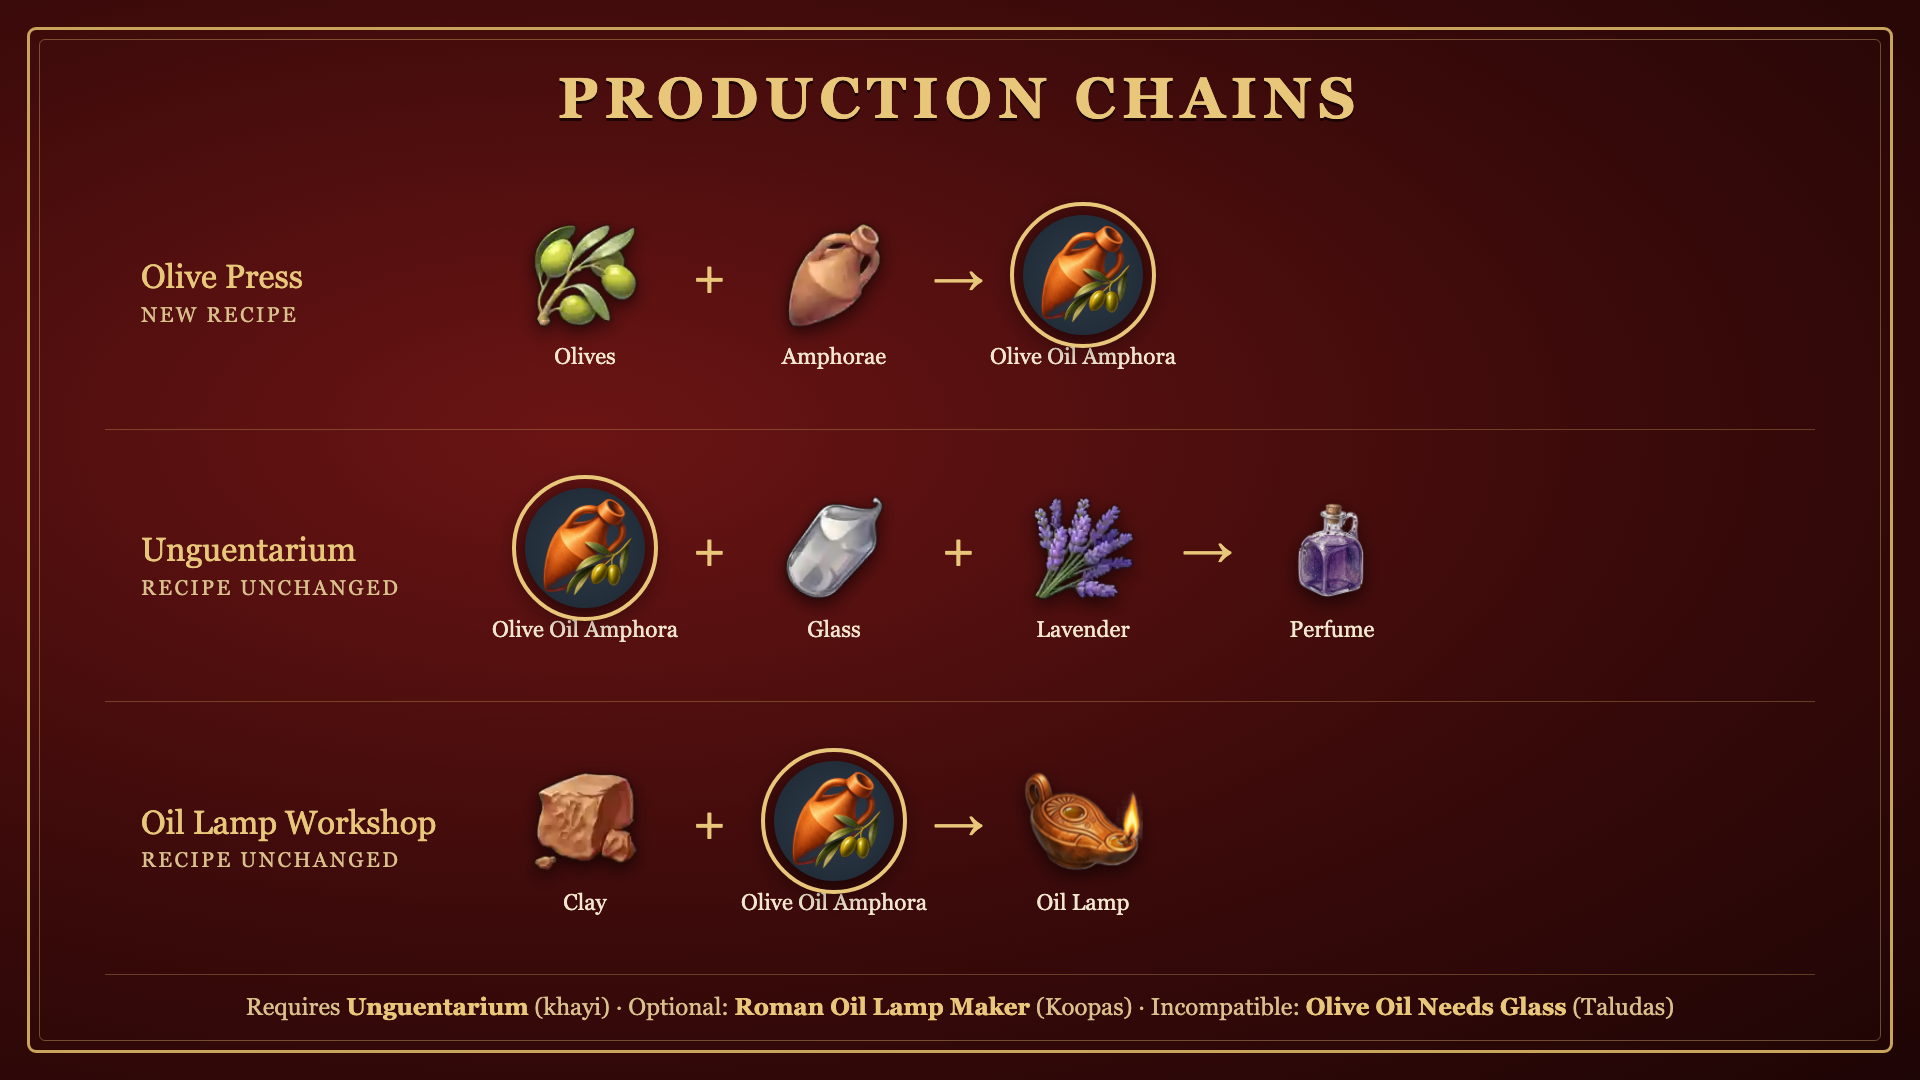
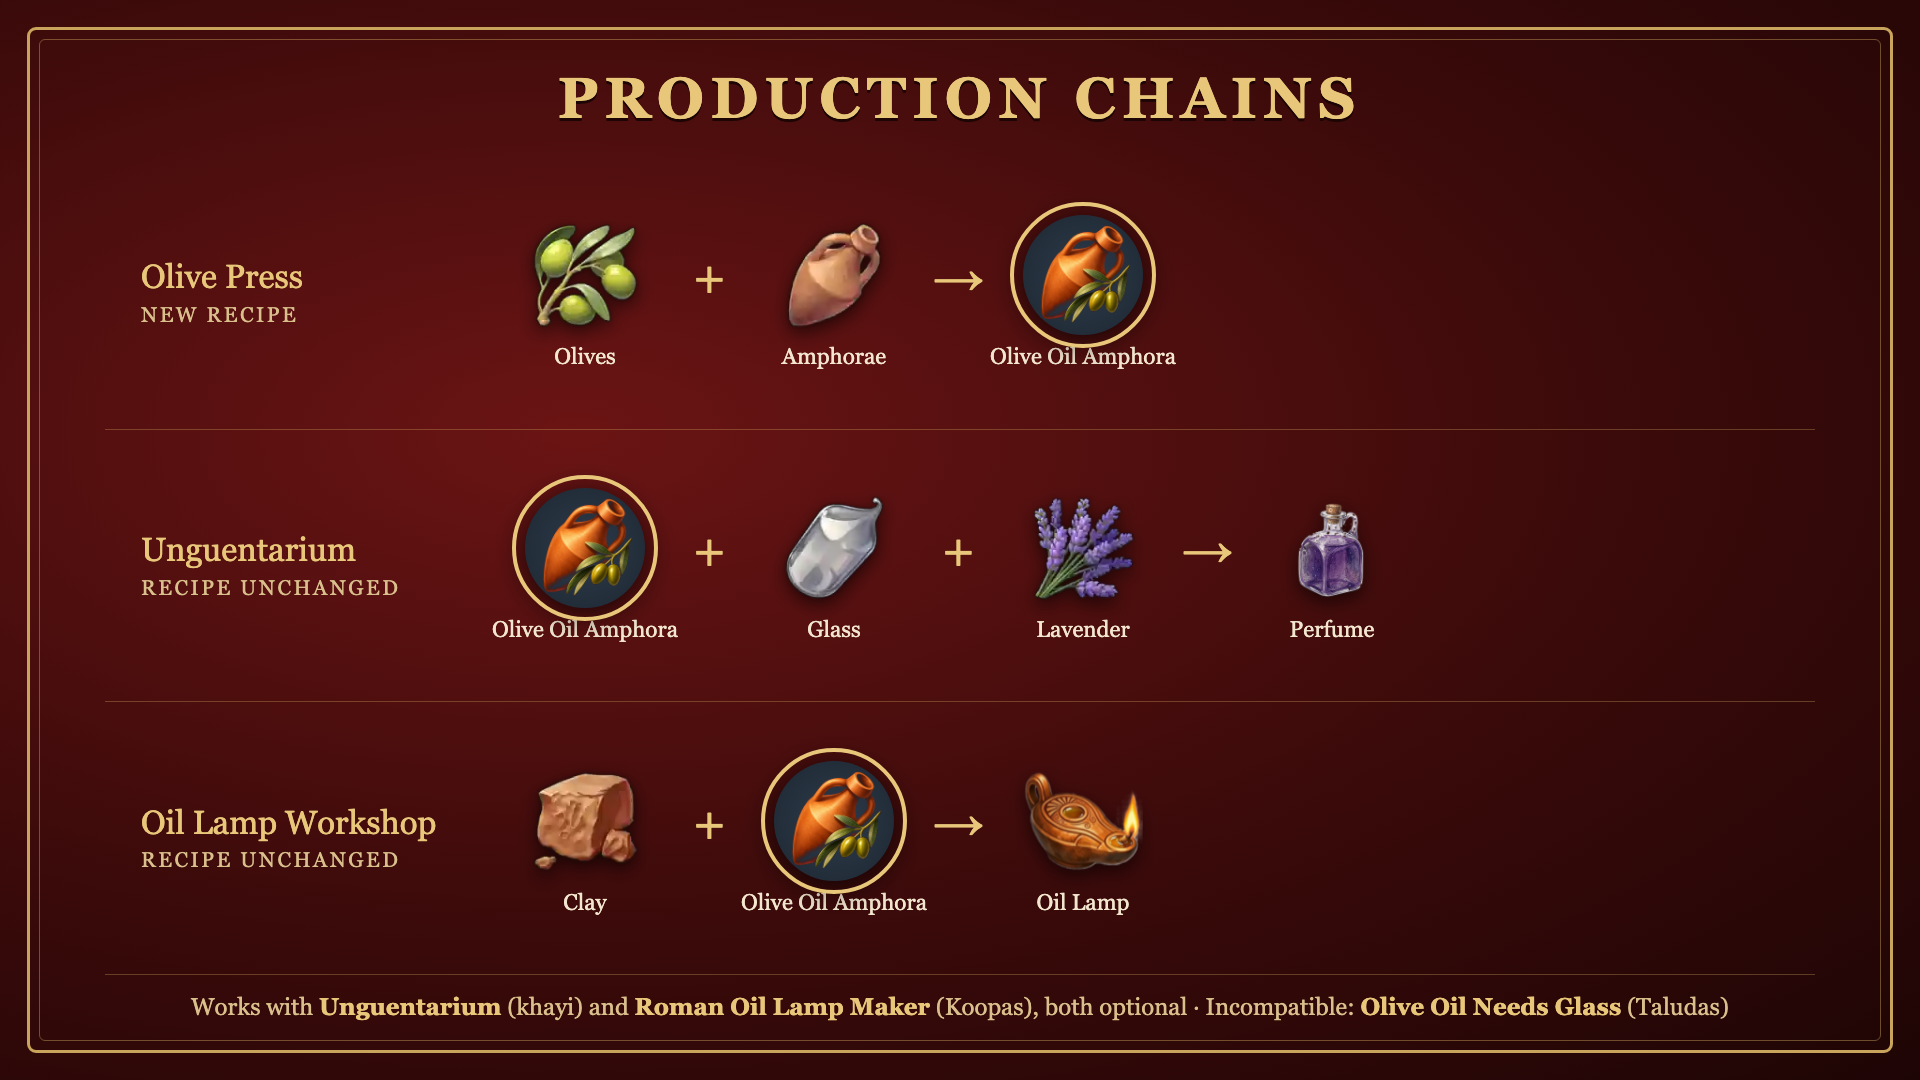
fix(mod): make Unguentarium an optional dependency; release 0.1.5
The olive press, rename and olive oil chain views only touch vanilla assets,
and the perfume chain patches are already guarded by Group conditions.

Changed region(s): [[0.0938, 0.9167, 0.9062, 0.9472]]

diff --git a/tests/test_mod.py b/tests/test_mod.py
@@ -214,8 +214,8 @@ class StaticTests(unittest.TestCase):
         for key in ("ModName", "Category", "Description"):
             self.assertTrue(info[key]["English"])
         deps = info["Dependencies"]
-        self.assertEqual(deps["Require"], ["unguentarium-khayi"])
-        self.assertEqual(deps["Optional"], ["roman-night-lamps-koopas"])
+        self.assertEqual(deps["Require"], [])
+        self.assertEqual(deps["Optional"], ["unguentarium-khayi", "roman-night-lamps-koopas"])
         self.assertTrue(set(deps["Require"] + deps["Optional"]) <= set(deps["LoadAfter"]), "dependencies must load first")
         self.assertEqual(deps["Incompatible"], [TALUDAS])
         self.assertNotIn(TALUDAS, deps["Optional"] + deps["LoadAfter"])
@@ -347,7 +347,7 @@ class UpstreamTests(unittest.TestCase):
         self.assertIn("roman-night-lamps-koopas", self.mods)
         self.assertEqual(self.factory_inputs("roman-night-lamps-koopas", LAMP_WORKSHOP), [CLAY, OLIVE_OIL])
 
-    def test_no_patch_conflicts_with_required_mods(self):
+    def test_no_patch_conflicts_with_supported_mods(self):
         for mod_id in ("unguentarium-khayi", "roman-night-lamps-koopas"):
             # Unguentarium locks its own chain views; our display patch on them is checked against its real files.
             self.assertEqual(self.patched_guids(mod_id) & (PATCHED_GUIDS - set(PERFUME_CHAINS)), set(), mod_id)

diff --git a/README.md b/README.md
@@ -24,11 +24,11 @@ The new name uses LineId `2001004149` and ships in all 12 game languages. French
 
 | Mod | ModID | Version checked | Relation |
 |---|---|---|---|
-| Unguentarium – Roman Perfumery (khayi) | `unguentarium-khayi` | 1.6, 1.7 | Required, loads before |
+| Unguentarium – Roman Perfumery (khayi) | `unguentarium-khayi` | 1.6, 1.7 | Optional, loads before |
 | Roman Oil Lamp Maker (Koopas) | `roman-night-lamps-koopas` | 1.2.0 | Optional, loads before |
 | Olive Oil Needs Glass (Taludas) | `taludas-oliveoilneedsglass` | 1.0.0 | **Incompatible** |
 
-- Recipes of the required mods are not patched. The only upstream assets touched are Unguentarium's perfume chain views (`1556002102`, and `1556002103` from 1.7), which get the Amphorae Workshop under the Olive Press. Display only. A missing required mod (Unguentarium) only logs `[error] olive-oil-amphora-compat: is missing a dependency <ModID>` in `mod-loader.log`; the mod still loads.
+- Both mods are optional: without them the Olive Press, the rename and the olive oil chain views work on vanilla alone. Their recipes are not patched. The only upstream assets touched are Unguentarium's perfume chain views (`1556002102`, and `1556002103` from 1.7), which get the Amphorae Workshop under the Olive Press. Display only, skipped when Unguentarium is absent.
 - This mod replaces Taludas' "Olive Oil Needs Glass". Together they would give olive oil both glass and amphorae. Disable Taludas' mod. It declares itself `SafeToRemove`.
 - Any other mod that changes Olive Press `4831` inputs or the olive oil product text may conflict.
 
@@ -36,7 +36,7 @@ The new name uses LineId `2001004149` and ships in all 12 game languages. French
 
 1. Download `olive-oil-amphora-compat-<version>.zip` from the GitHub Releases or mod.io.
 2. Extract it into `<user>/Anno 117/mods/` (for example `Documents/Anno 117/mods/`), so you get `mods/[Gameplay] Olive Oil in Amphorae/modinfo.json`.
-3. Install and enable the required mods. Disable "Olive Oil Needs Glass" (Taludas).
+3. Optionally install Unguentarium and Roman Oil Lamp Maker. Disable "Olive Oil Needs Glass" (Taludas).
 4. Start the game and enable the mod.
 
 Existing saves: olive presses that are already built need amphorae from the moment the mod is enabled.
@@ -79,7 +79,7 @@ UPSTREAM_DIR=~/Downloads python3 -m unittest discover -s tests   # + checks agai
 python3 tools/package.py                       # reproducible ZIP in dist/
 ```
 
-Upstream checks read the ZIPs in `UPSTREAM_DIR` (matched by the `ModID` in each `modinfo.json`). They verify that the perfume and lamp recipes match, that the required mods patch none of our assets, and that no upstream text uses our LineId.
+Upstream checks read the ZIPs in `UPSTREAM_DIR` (matched by the `ModID` in each `modinfo.json`). They verify that the perfume and lamp recipes match, that those mods patch none of our assets, and that no upstream text uses our LineId.
 
 ### What the tests prove
 

diff --git a/reference/verified.md b/reference/verified.md
@@ -35,7 +35,7 @@ No vanilla factory consumes a product that is also a household need (scanned all
 
 Upstream LineIds in use: `2001000010`, `2001000011` (lamps), `2001000020`–`2001000022` (perfume). This mod uses `2001004149`.
 
-Neither required mod patches `4831`, `31806`, `55972`, `2149`, `2778` or `55961` (checked by `UpstreamTests`).
+Neither supported mod patches `4831`, `31806`, `55972`, `2149`, `2778` or `55961` (checked by `UpstreamTests`).
 
 ## Mod loader
 
